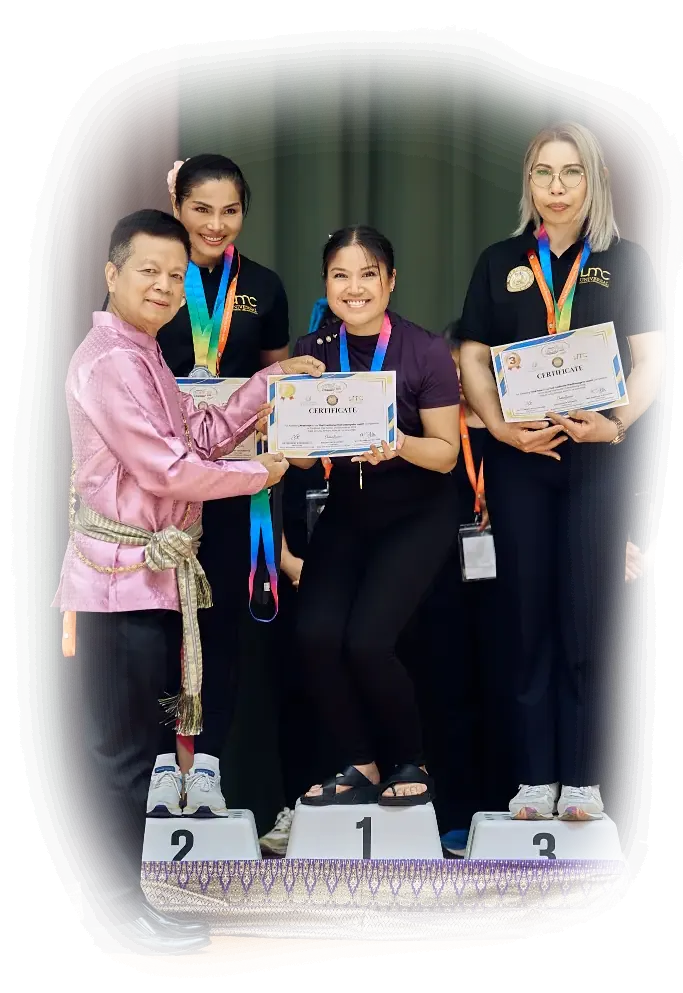
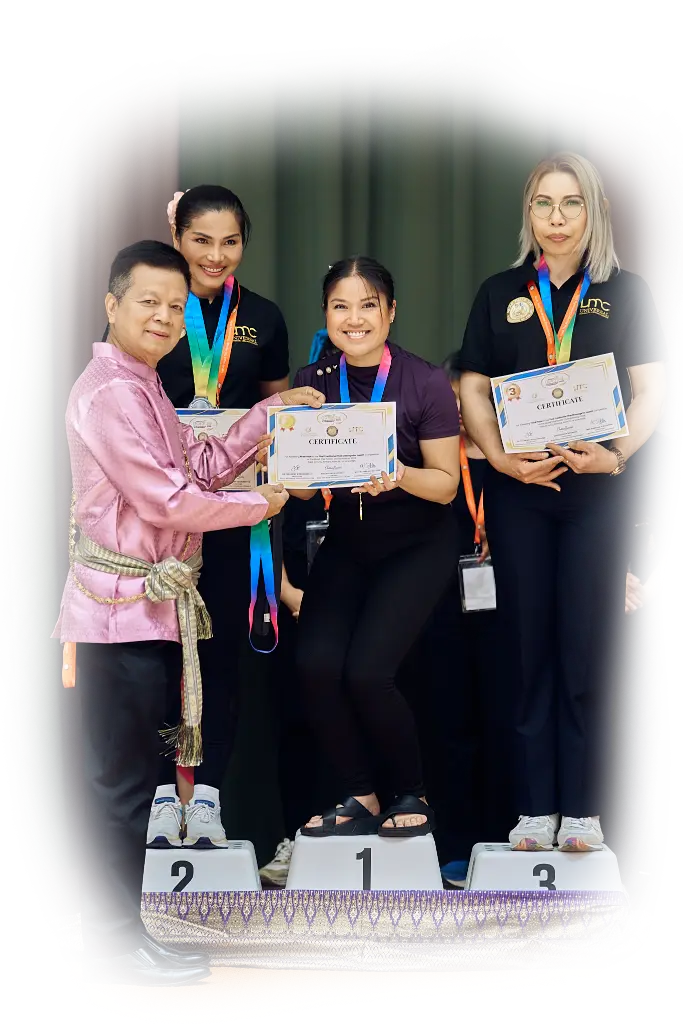
Restore original images untouched; fix slow reveals; marquee exception
Images — reverting my mistake
Every .webp is now the file that was authored, copied in byte-for-byte and
verified by checksum through the build. I had been re-encoding them at
alpha_quality 72, which collapsed the soft mask from 240 alpha levels to 29.
That was the banding on the feathered edges and the faintly visible blocks
in the transparent padding. Both were introduced by me, not present in the
source. No colour channel or alpha is touched any more.

The hero portrait is the full original square canvas; framing to the subject
is done with object-fit/object-position/transform in CSS, so the bytes the
browser downloads are exactly the authored ones.

Homepage populating slowly
Every [data-reveal] element was hidden the instant the main bundle added the
.js class, but the code that revealed them lived in the 44 KB GSAP chunk,
loaded on an idle callback with a 1.8s timeout. On a slow connection that is
seconds of blank page below the fold, and had that chunk failed the content
would never have appeared. Reveals now run from a small IntersectionObserver
in the main bundle with a pure-CSS transition, plus a 6s failsafe animation
so nothing can stay hidden. GSAP is now genuinely optional.

Marquee under reduced motion
Deliberate exception as requested: the values ribbon keeps scrolling for
reduced-motion visitors at 96s rather than 32s. A stationary ribbon reads as
cut-off text; slow movement is readable without demanding attention.
[…]

Changed region(s): [[0.0615, 0.0312, 0.9531, 0.9366], [0.8917, 0.5307, 0.9531, 0.5932], [0.1537, 0.7492, 0.1845, 0.7805]]

diff --git a/about/index.html b/about/index.html
@@ -30,7 +30,7 @@
             src="/assets/story/trophy-winners.webp"
             alt="Pratana mit dem Pokal in der Mitte, links und rechts die beiden anderen Sieger mit ihren Pokalen, dahinter die finnische Flagge."
             data-i18n-alt="about.laureateAlt"
-            width="900" height="783" loading="eager" fetchpriority="high" decoding="async">
+            width="1272" height="1018" loading="eager" fetchpriority="high" decoding="async">
           <figcaption class="laureate__caption">
             <span class="laureate__place">Nordic Nuad Thai Massage Championship 2026</span>
             <span class="laureate__meta" data-i18n="about.laureateMeta">Finnland · Die Siegerinnen und Sieger des Wettkampfs</span>
@@ -91,7 +91,7 @@
           </div>
           <div class="founder__portrait" data-reveal>
             <div class="founder__halo" aria-hidden="true"></div>
-            <picture><source srcset="/assets/pratana-portrait-640.webp 640w, /assets/pratana-portrait-768.webp 768w, /assets/pratana-portrait-960.webp 960w, /assets/pratana-portrait-1200.webp 1200w, /assets/pratana-portrait-1440.webp 1440w" sizes="(max-width: 620px) 90vw, (max-width: 860px) 70vw, 42vw" type="image/webp"><img src="/assets/pratana-portrait-960.webp" alt="Pratana Halstrick, Gründerin von KWIIN" data-i18n-alt="hero.portraitAlt" width="960" height="1200" loading="lazy" decoding="async"></picture>
+            <img src="/assets/pratana-hero.webp" alt="Pratana Halstrick, Gründerin von KWIIN" data-i18n-alt="hero.portraitAlt" width="3883" height="3883" loading="lazy" decoding="async">
             <span class="founder__caption">Bangkok · Dübendorf</span>
           </div>
         </div>
@@ -109,13 +109,13 @@
 
           <div class="craft__strip">
             <figure class="craft__figure craft__figure--tall" data-reveal>
-              <img src="/assets/story/action-oil.webp" alt="Pratana verteilt während des Wettkampfs Öl in den Händen, bevor sie den Rücken behandelt." data-i18n-alt="about.perfOilAlt" width="900" height="1130" loading="lazy" decoding="async">
+              <img src="/assets/story/action-oil.webp" alt="Pratana verteilt während des Wettkampfs Öl in den Händen, bevor sie den Rücken behandelt." data-i18n-alt="about.perfOilAlt" width="1045" height="1306" loading="lazy" decoding="async">
             </figure>
             <figure class="craft__figure craft__figure--wide" data-reveal>
-              <img src="/assets/story/action-thai-stretch.webp" alt="Eine typische Thai Dehnung mit Knien am Rücken und gezogenen Armen, während der Vorführung." data-i18n-alt="about.perfStretchAlt" width="852" height="684" loading="lazy" decoding="async">
+              <img src="/assets/story/action-thai-stretch.webp" alt="Eine typische Thai Dehnung mit Knien am Rücken und gezogenen Armen, während der Vorführung." data-i18n-alt="about.perfStretchAlt" width="966" height="773" loading="lazy" decoding="async">
             </figure>
             <figure class="craft__figure" data-reveal>
-              <img src="/assets/story/action-energy.webp" alt="Pratana arbeitet während des Wettkampfs mit den Händen über dem Rücken des Modells." data-i18n-alt="about.perfEnergyAlt" width="683" height="994" loading="lazy" decoding="async">
+              <img src="/assets/story/action-energy.webp" alt="Pratana arbeitet während des Wettkampfs mit den Händen über dem Rücken des Modells." data-i18n-alt="about.perfEnergyAlt" width="683" height="1024" loading="lazy" decoding="async">
             </figure>
           </div>
 
@@ -123,23 +123,23 @@
 
           <div class="championship__grid">
             <figure class="championship__figure championship__figure--hero" data-reveal>
-              <img src="/assets/story/podium-first.webp" alt="Pratana auf dem ersten Platz des Podiums, die Arme mit der Urkunde erhoben." data-i18n-alt="about.podiumAlt" width="683" height="1001" loading="lazy" decoding="async">
+              <img src="/assets/story/podium-first.webp" alt="Pratana auf dem ersten Platz des Podiums, die Arme mit der Urkunde erhoben." data-i18n-alt="about.podiumAlt" width="683" height="1024" loading="lazy" decoding="async">
               <figcaption><b>01</b><span data-i18n="about.capPodium">Erster Platz, Thai Traditional Massage</span></figcaption>
             </figure>
 
             <figure class="championship__figure" data-reveal>
-              <img src="/assets/story/podium-diploma.webp" alt="Übergabe der Urkunde für den ersten Platz auf dem Podium." data-i18n-alt="about.diplomaAlt" width="683" height="993" loading="lazy" decoding="async">
+              <img src="/assets/story/podium-diploma.webp" alt="Übergabe der Urkunde für den ersten Platz auf dem Podium." data-i18n-alt="about.diplomaAlt" width="683" height="1024" loading="lazy" decoding="async">
               <figcaption><span data-i18n="about.capDiploma">Die Urkunde</span></figcaption>
             </figure>
 
             <figure class="championship__figure" data-reveal>
-              <img src="/assets/story/trophy-winners.webp" alt="Pratana mit dem Pokal neben den beiden anderen Siegerinnen." data-i18n-alt="about.trophyAlt" width="900" height="783" loading="lazy" decoding="async">
+              <img src="/assets/story/trophy-winners.webp" alt="Pratana mit dem Pokal neben den beiden anderen Siegerinnen." data-i18n-alt="about.trophyAlt" width="1272" height="1018" loading="lazy" decoding="async">
               <figcaption><span data-i18n="about.capTrophy">Am Ende des Wettkampfs</span></figcaption>
             </figure>
           </div>
 
           <figure class="championship__group" data-reveal>
-            <img src="/assets/story/group-event.webp" alt="Gruppenbild aller Teilnehmerinnen und Teilnehmer der Championship." data-i18n-alt="about.groupAlt" width="1024" height="548" loading="lazy" decoding="async">
+            <img src="/assets/story/group-event.webp" alt="Gruppenbild aller Teilnehmerinnen und Teilnehmer der Championship." data-i18n-alt="about.groupAlt" width="1024" height="556" loading="lazy" decoding="async">
             <figcaption>Cultural Bridge to Finland · 2026</figcaption>
           </figure>
         </div>
@@ -157,7 +157,7 @@
               src="/assets/story/medals-four.webp"
               alt="Die vier Medaillen der Nordic Nuad Thai Massage Championship 2026: zweimal Gold, einmal Silber, einmal Bronze."
               data-i18n-alt="about.medalsAlt"
-              width="1100" height="903" loading="lazy" decoding="async">
+              width="1821" height="1457" loading="lazy" decoding="async">
             <figcaption class="medal-legend">
               <span class="medal-legend__item" data-tone="gold"><b data-i18n="about.medalGold">Gold</b>Thai Traditional Massage</span>
               <span class="medal-legend__item" data-tone="gold"><b data-i18n="about.medalGold">Gold</b>Sports Massage</span>

diff --git a/src/styles/main.css b/src/styles/main.css
@@ -2289,12 +2289,33 @@ em {
 .site-footer__legal { position:relative; display:flex; align-items:center; justify-content:space-between; gap:25px; padding-top:24px; font-size:.58rem; }
 .site-footer__legal p:last-child { color:var(--gold-light); font-family:var(--display); font-size:.95rem; font-style:italic; }
 
-/* Reveal states */
+/* Reveal states.
+   These are driven by a small IntersectionObserver in the main bundle, not
+   by the animation chunk. Content must never be waiting on a 44 KB library
+   to become visible — if that chunk is slow or fails, the page would sit
+   blank below the fold. The transition lives here so the whole effect is
+   CSS; JS only adds the class. */
 .js [data-reveal],
 .js [data-stagger] > * {
   opacity: 0;
   transform: translateY(28px);
+  transition: opacity .85s var(--ease-lux), transform .85s var(--ease-lux);
 }
+.js [data-reveal].is-revealed,
+.js [data-stagger] > .is-revealed {
+  opacity: 1;
+  transform: none;
+}
+
+/* Belt and braces: if scripting is on but the observer never runs for any
+   reason, nothing stays hidden past the first few seconds. */
+@keyframes reveal-failsafe { to { opacity: 1; transform: none; } }
+.js [data-reveal],
+.js [data-stagger] > * {
+  animation: reveal-failsafe .01s linear 6s forwards;
+}
+.js [data-reveal].is-revealed,
+.js [data-stagger] > .is-revealed { animation: none; }
 
 /* Responsive */
 @media (max-width: 1120px) {
@@ -2914,6 +2935,17 @@ em {
 @media (prefers-reduced-motion: reduce) {
   html { scroll-behavior:auto; }
   *,*::before,*::after { animation-duration:.01ms!important; animation-iteration-count:1!important; scroll-behavior:auto!important; transition-duration:.01ms!important; }
+
+  /* Deliberate exception: the values ribbon is a line of words, and a
+     stationary one just reads as cut-off text. It keeps moving, but at
+     roughly a third of the speed — slow enough to be readable rather than
+     attention-grabbing, which is what the preference is actually asking for. */
+  .values-ribbon__track {
+    animation-name: marquee !important;
+    animation-duration: 96s !important;
+    animation-timing-function: linear !important;
+    animation-iteration-count: infinite !important;
+  }
   body::before { transform:none; }
   .js [data-reveal],.js [data-stagger] > * { opacity:1; transform:none; }
 }
@@ -2921,6 +2953,40 @@ em {
 @media (hover: none) and (pointer: coarse) {
   .portal-card { will-change:auto; }
   .treatment-card:hover { transform:none; }
+}
+
+/* ── Hero portrait framing ───────────────────────────────────────────────
+   The portrait file is the untouched original: a square canvas with the
+   subject occupying roughly the middle third, surrounded by transparent
+   space from the soft mask. Framing is done here in CSS rather than by
+   re-cutting the file, so the image the browser downloads is byte-for-byte
+   the one that was authored. object-fit + object-position crops to the
+   subject; nothing is re-encoded, so the feather stays exactly as brushed. */
+.portrait-stage picture {
+  display: block;
+  height: min(76vh, 860px);    /* drive from height so the hero stays in view */
+  width: auto;
+  aspect-ratio: 1422 / 2500;   /* the subject's own proportions */
+  margin-inline: auto;
+}
+.portrait-stage picture > img {
+  width: 100%;
+  height: 100%;
+  object-fit: cover;
+  object-position: 50.5% 52%;  /* subject centre within the square canvas */
+  transform: scale(1.5);       /* fills the frame without touching pixels */
+  transform-origin: 50% 58%;
+}
+
+/* Same original, same approach, in the founder block on the About page. */
+.founder__portrait > img {
+  position: absolute;
+  inset: 4% 0 0;
+  width: 100%;
+  height: 96%;
+  object-fit: contain;
+  object-position: bottom;
+  filter: drop-shadow(0 30px 40px rgba(59,38,57,.2));
 }
 
 /* ── Laureate hero (About) ───────────────────────────────────────────────

diff --git a/src/js/reveal.js b/src/js/reveal.js
@@ -1,0 +1,72 @@
+/**
+ * Scroll reveals.
+ *
+ * These used to live in the animation chunk alongside GSAP, which meant every
+ * [data-reveal] element on the page was hidden by the `.js` class the moment
+ * the main bundle ran, and stayed hidden until a 44 KB library finished
+ * loading on an idle callback. On a slow connection that is seconds of blank
+ * page below the fold, and if the chunk ever failed the content never
+ * appeared at all.
+ *
+ * Reveals are content, so they belong in the main bundle. This is an
+ * IntersectionObserver that adds a class; the transition itself is CSS.
+ * Under prefers-reduced-motion everything is simply revealed at once.
+ */
+
+const REVEALED = "is-revealed";
+
+export function initReveals() {
+  const blocks = document.querySelectorAll("[data-reveal]");
+  const groups = document.querySelectorAll("[data-stagger]");
+  if (!blocks.length && !groups.length) return;
+
+  const revealAll = () => {
+    blocks.forEach((el) => el.classList.add(REVEALED));
+    groups.forEach((g) => [...g.children].forEach((c) => c.classList.add(REVEALED)));
+  };
+
+  if (matchMedia("(prefers-reduced-motion: reduce)").matches || !("IntersectionObserver" in window)) {
+    revealAll();
+    return;
+  }
+
+  const observer = new IntersectionObserver((entries) => {
+    for (const entry of entries) {
+      if (!entry.isIntersecting) continue;
+      const el = entry.target;
+      observer.unobserve(el);
+
+      if (el.hasAttribute("data-stagger")) {
+        // Children arrive in sequence, capped so a long list never trails.
+        [...el.children].forEach((child, i) => {
+          child.style.transitionDelay = `${Math.min(i * 90, 540)}ms`;
+          child.classList.add(REVEALED);
+        });
+      } else {
+        el.classList.add(REVEALED);
+      }
+    }
+  }, { rootMargin: "0px 0px -8% 0px", threshold: 0.05 });
+
+  blocks.forEach((el) => observer.observe(el));
+  groups.forEach((el) => observer.observe(el));
+
+  // Anything already in view on load should not wait for a scroll event.
+  requestAnimationFrame(() => {
+    const vh = window.innerHeight;
+    [...blocks, ...groups].forEach((el) => {
+      const r = el.getBoundingClientRect();
+      if (r.top < vh && r.bottom > 0) {
+        observer.unobserve(el);
+        if (el.hasAttribute("data-stagger")) {
+          [...el.children].forEach((c, i) => {
+            c.style.transitionDelay = `${Math.min(i * 90, 540)}ms`;
+            c.classList.add(REVEALED);
+          });
+        } else {
+          el.classList.add(REVEALED);
+        }
+      }
+    });
+  });
+}

diff --git a/index.html b/index.html
@@ -45,12 +45,7 @@
             <div class="portrait-stage__halo" aria-hidden="true"></div>
             <div class="portrait-stage__rings" aria-hidden="true"><span></span><span></span><span></span></div>
             <picture>
-              <source
-                srcset="/assets/pratana-v2-640.webp 640w, /assets/pratana-v2-768.webp 768w, /assets/pratana-v2-960.webp 960w, /assets/pratana-v2-1200.webp 1200w, /assets/pratana-v2-1440.webp 1440w"
-                sizes="(max-width: 620px) 78vw, (max-width: 860px) 56vw, 34vw"
-                type="image/webp"
-              >
-              <img src="/assets/pratana-v2-960.webp" alt="Pratana Halstrick, Gründerin von KWIIN" data-i18n-alt="hero.portraitAlt" width="960" height="1688" loading="eager" fetchpriority="high" decoding="async">
+              <img src="/assets/pratana-hero.webp" alt="Pratana Halstrick, Gründerin von KWIIN" data-i18n-alt="hero.portraitAlt" width="3883" height="3883" loading="eager" fetchpriority="high" decoding="async">
             </picture>
             <div class="portrait-stage__seal" aria-hidden="true">
               <svg viewBox="0 0 72 52" fill="none"><path d="M36 43C24 37 18 27 18 15c8 3 14 9 18 18 4-9 10-15 18-18 0 12-6 22-18 28Z"/><path d="M36 41C30 28 30 16 36 5c6 11 6 23 0 36Z"/><path d="M35 43C21 44 11 39 5 29c10-1 19 2 27 11M37 43c14 1 24-4 30-14-10-1-19 2-27 11M19 47c10 3 24 3 34 0"/></svg>

diff --git a/src/js/animations.js b/src/js/animations.js
@@ -56,34 +56,11 @@ function initReactiveSurfaces() {
 export function initAnimations() {
   const reducedMotion = matchMedia("(prefers-reduced-motion: reduce)").matches;
 
-  if (reducedMotion) {
-    document.querySelectorAll("[data-reveal], [data-stagger] > *").forEach((element) => {
-      element.style.opacity = "1";
-      element.style.transform = "none";
-    });
-    return;
-  }
+  // Reveals are handled in the main bundle (reveal.js); this chunk only
+  // adds the scrubbed parallax and pointer-reactive flourishes.
+  if (reducedMotion) return;
 
-  gsap.utils.toArray("[data-reveal]").forEach((element) => {
-    gsap.to(element, {
-      y: 0,
-      opacity: 1,
-      duration: 1,
-      ease: "power3.out",
-      scrollTrigger: { trigger: element, start: "top 88%", once: true },
-    });
-  });
 
-  gsap.utils.toArray("[data-stagger]").forEach((group) => {
-    gsap.to(group.children, {
-      y: 0,
-      opacity: 1,
-      duration: 0.85,
-      stagger: 0.1,
-      ease: "power3.out",
-      scrollTrigger: { trigger: group, start: "top 86%", once: true },
-    });
-  });
 
   gsap.utils.toArray(".inner-hero__art span, .services-hero__ribbons span, .contact-hero__rings span").forEach((element, index) => {
     gsap.to(element, {

diff --git a/src/js/main.js b/src/js/main.js
@@ -3,6 +3,7 @@ import { initI18n } from "./i18n.js";
 import { initNavigation } from "./navigation.js";
 import { initPricing } from "./pricing.js";
 import { initCounters } from "./numerals.js";
+import { initReveals } from "./reveal.js";
 import { initArrival, initArrivalReplay } from "./arrival.js";
 
 document.documentElement.classList.add("js");
@@ -17,6 +18,7 @@ initI18n();
 initNavigation();
 initPricing();
 initCounters();
+initReveals();
 
 let animationsStarted = false;
 const startAnimations = () => {
